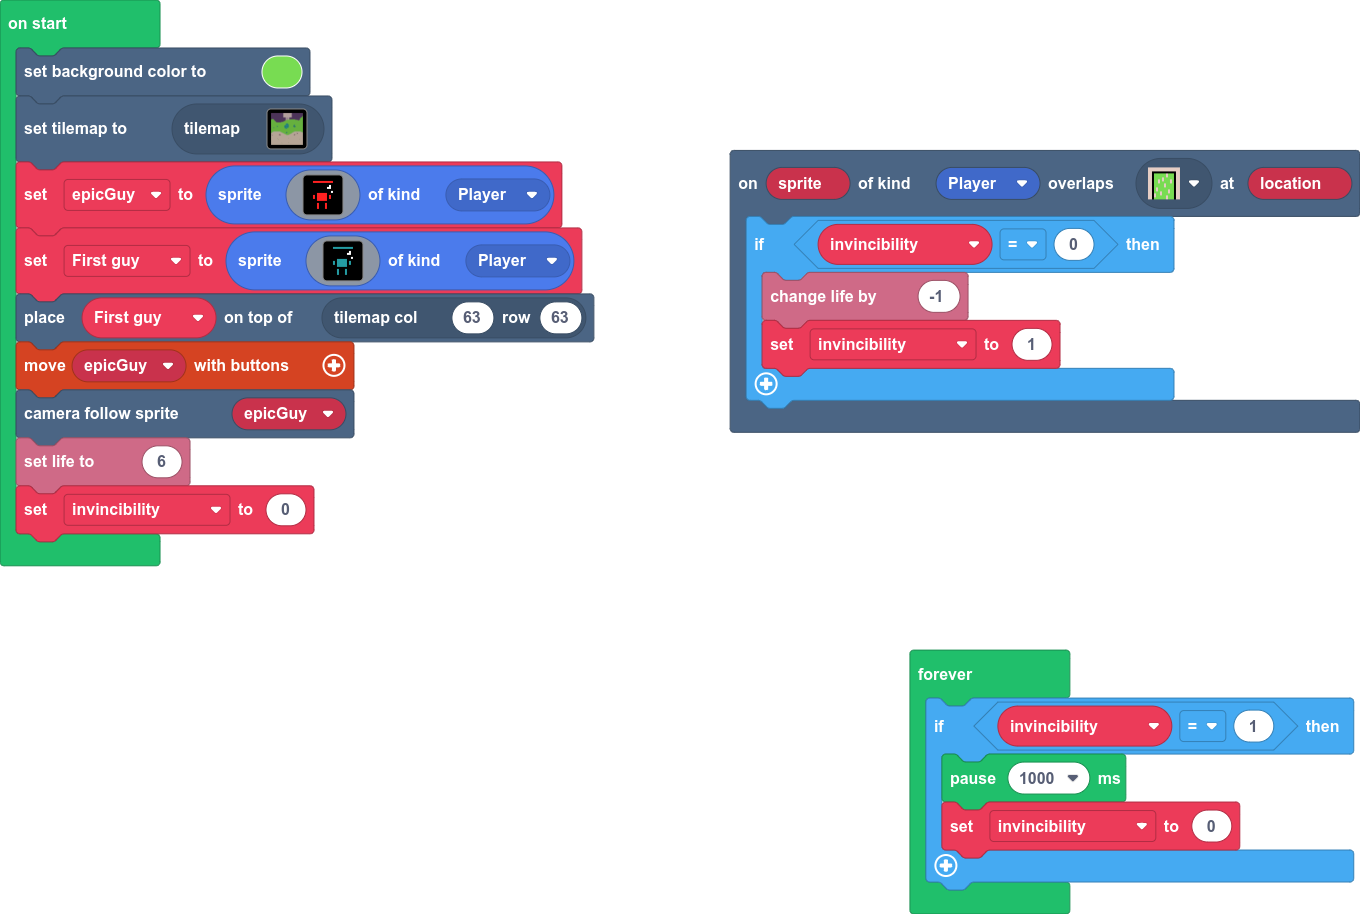
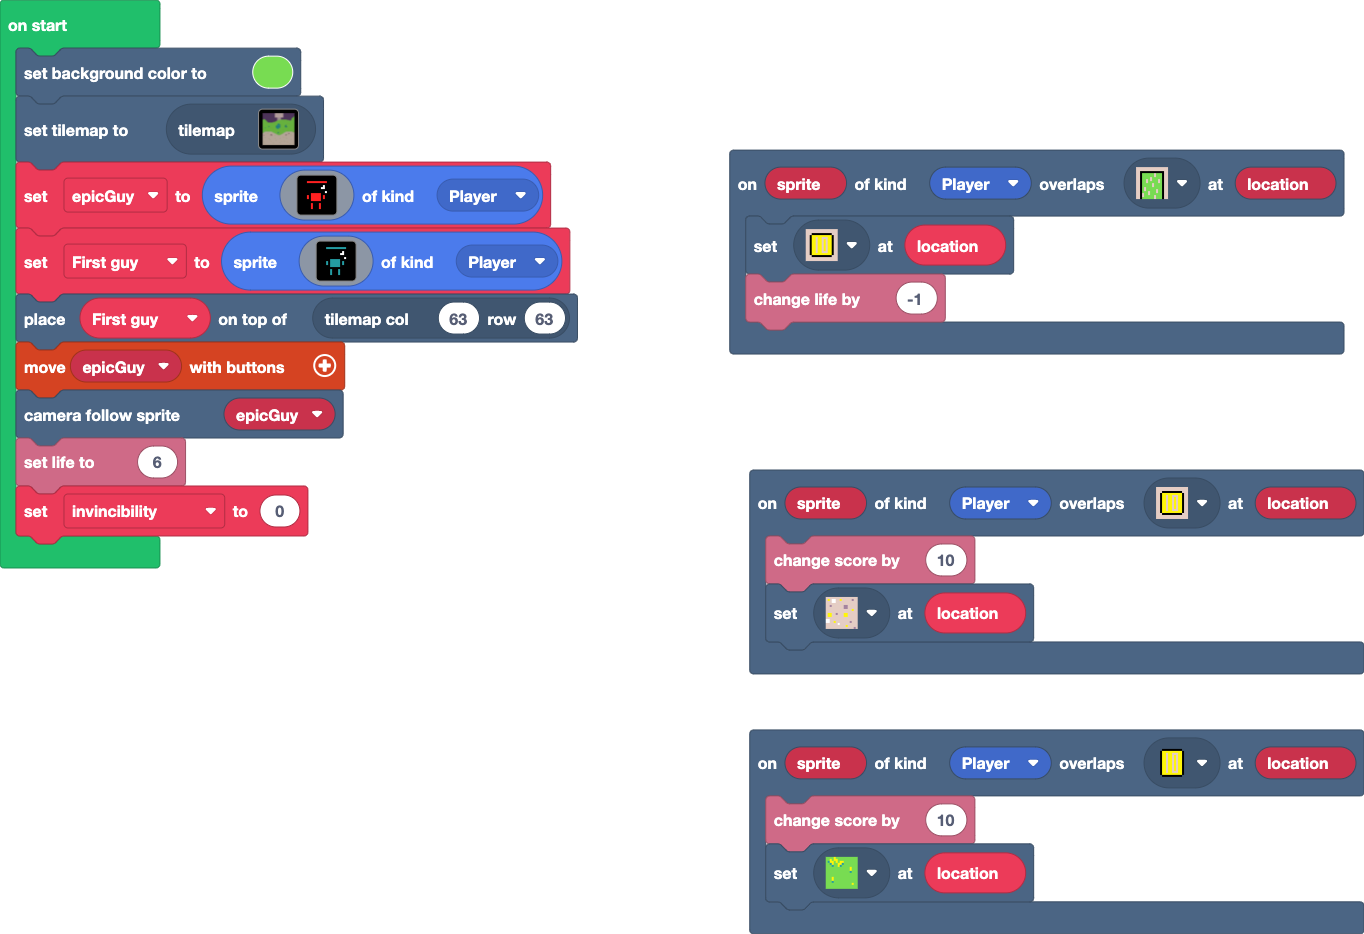
Update main.blocks, main.ts, tilemap.g.jres, tilemap.g.ts

diff --git a/tilemap.g.ts b/tilemap.g.ts
@@ -15,14 +15,18 @@ namespace myTiles {
     //% fixedInstance jres blockIdentity=images._tile
     export const tile5 = image.ofBuffer(hex``);
     //% fixedInstance jres blockIdentity=images._tile
+    export const tile8 = image.ofBuffer(hex``);
+    //% fixedInstance jres blockIdentity=images._tile
     export const tile7 = image.ofBuffer(hex``);
     //% fixedInstance jres blockIdentity=images._tile
-    export const tile8 = image.ofBuffer(hex``);
+    export const tile9 = image.ofBuffer(hex``);
+    //% fixedInstance jres blockIdentity=images._tile
+    export const tile10 = image.ofBuffer(hex``);
 
     helpers._registerFactory("tilemap", function(name: string) {
         switch(helpers.stringTrim(name)) {
             case "level1":
[2 lines of base64/hex data omitted]
 .........................2...............2......................
 .........................2...............2......................
 .........................2...............2......................
@@ -87,7 +91,7 @@ namespace myTiles {
 ................................................................
 ................................................................
 ................................................................
-`, [myTiles.transparency16,myTiles.tile4,sprites.castle.tileGrass1,sprites.castle.tilePath2,sprites.builtin.forestTiles12,sprites.castle.tileDarkGrass3,myTiles.tile5,sprites.castle.tileDarkGrass1,sprites.castle.tileDarkGrass2,sprites.dungeon.floorLight0,sprites.dungeon.floorLight2,sprites.dungeon.stairSouth,sprites.dungeon.darkGroundCenter,sprites.dungeon.darkGroundNorth,sprites.dungeon.darkGroundWest,sprites.dungeon.darkGroundNorthWest0,sprites.dungeon.darkGroundNorthEast0,sprites.dungeon.darkGroundEast,sprites.dungeon.darkGroundSouthEast0,sprites.dungeon.darkGroundSouth,sprites.dungeon.darkGroundSouthWest0,myTiles.tile8], TileScale.Sixteen);
+`, [myTiles.transparency16,myTiles.tile4,sprites.castle.tileGrass1,sprites.castle.tilePath2,sprites.builtin.forestTiles12,sprites.castle.tileDarkGrass3,myTiles.tile5,sprites.castle.tileDarkGrass1,sprites.castle.tileDarkGrass2,sprites.dungeon.floorLight0,sprites.dungeon.floorLight2,sprites.dungeon.stairSouth,sprites.dungeon.darkGroundCenter,sprites.dungeon.darkGroundNorth,sprites.dungeon.darkGroundWest,sprites.dungeon.darkGroundNorthWest0,sprites.dungeon.darkGroundNorthEast0,sprites.dungeon.darkGroundEast,sprites.dungeon.darkGroundSouthEast0,sprites.dungeon.darkGroundSouth,sprites.dungeon.darkGroundSouthWest0,myTiles.tile8,myTiles.tile9,myTiles.tile10], TileScale.Sixteen);
         }
         return null;
     })
@@ -107,10 +111,14 @@ namespace myTiles {
             case "tile4":return tile4;
             case "myTile3":
             case "tile5":return tile5;
-            case "myTile5":
-            case "tile7":return tile7;
             case "cactus":
             case "tile8":return tile8;
+            case "neutral cactus":
+            case "tile7":return tile7;
+            case "myTile5":
+            case "tile9":return tile9;
+            case "myTile6":
+            case "tile10":return tile10;
         }
         return null;
     })

diff --git a/main.ts b/main.ts
@@ -1,10 +1,15 @@
-scene.onOverlapTile(SpriteKind.Player, assets.tile`cactus`, function (sprite, location) {
-    if (invincibility == 0) {
-        info.changeLifeBy(-1)
-        invincibility = 1
-    }
+scene.onOverlapTile(SpriteKind.Player, assets.tile`myTile6`, function (sprite, location) {
+    info.changeScoreBy(10)
+    tiles.setTileAt(location, assets.tile`myTile2`)
 })
-let invincibility = 0
+scene.onOverlapTile(SpriteKind.Player, assets.tile`cactus`, function (sprite, location) {
+    tiles.setTileAt(location, assets.tile`myTile6`)
+    info.changeLifeBy(-1)
+})
+scene.onOverlapTile(SpriteKind.Player, assets.tile`myTile5`, function (sprite, location) {
+    info.changeScoreBy(10)
+    tiles.setTileAt(location, sprites.castle.tileGrass1)
+})
 scene.setBackgroundColor(7)
 tiles.setCurrentTilemap(tilemap`level1`)
 let epicGuy = sprites.create(img`
@@ -47,10 +52,4 @@ tiles.placeOnTile(First_guy, tiles.getTileLocation(63, 63))
 controller.moveSprite(epicGuy)
 scene.cameraFollowSprite(epicGuy)
 info.setLife(6)
-invincibility = 0
-forever(function () {
-    if (invincibility == 1) {
-        pause(1000)
-        invincibility = 0
-    }
-})
+let invincibility = 0
